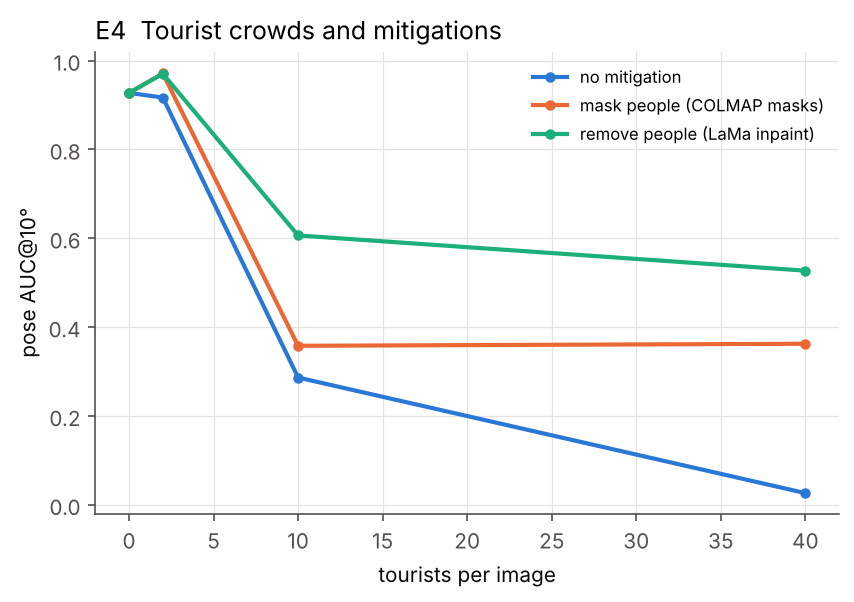
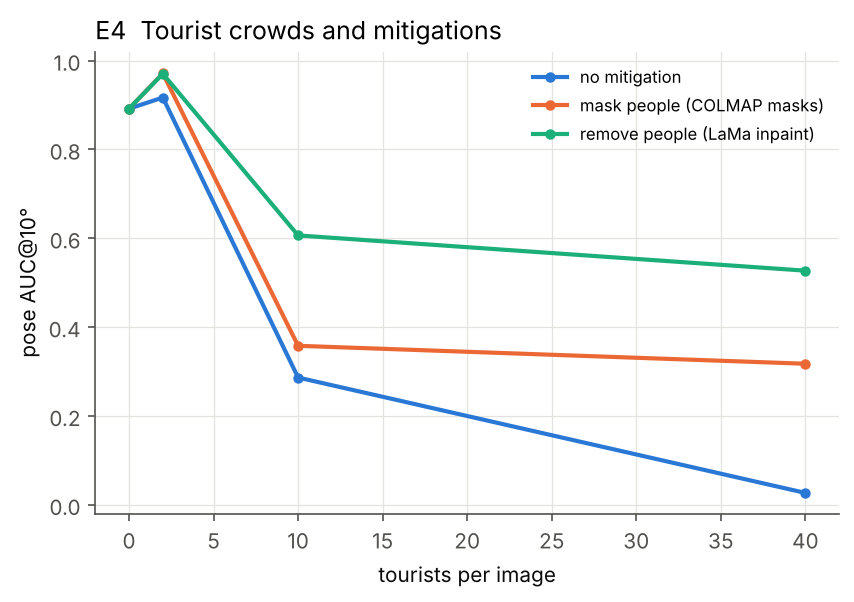
Update results
Claude-Session: https://claude.ai/code/session_01DwFUuxyVwkhujN2CBgQS9g

Changed region(s): [[0.3653, 0.5681, 0.9438, 0.6279], [0.1218, 0.1196, 0.1827, 0.1794]]

diff --git a/results/summary.md b/results/summary.md
@@ -5,7 +5,7 @@ Metric: pose AUC@10° over all input image pairs (unregistered = failure) and re
 
 ## Clean baseline
 
-29 runs, AUC@10 = 0.927 (std 0.154), registration 1.000.
+33 runs, AUC@10 = 0.892 (std 0.224), registration 0.935.
 
 
 ## E2a  Analytic corruptions
@@ -86,13 +86,13 @@ Metric: pose AUC@10° over all input image pairs (unregistered = failure) and re
 
 | severity | method | n | auc@10 | reg_frac |
 |---|---|---|---|---|
-| 4 | bicubic | 4 | 0.309 [0.11, 0.51] | 0.545 [0.35, 0.74] |
-| 4 | lowres | 4 | 0.023 [0.00, 0.05] | 0.125 [0.00, 0.25] |
+| 4 | bicubic | 6 | 0.219 [0.07, 0.38] | 0.413 [0.22, 0.61] |
+| 4 | lowres | 6 | 0.015 [0.00, 0.03] | 0.083 [0.00, 0.17] |
 | 4 | realesrgan | 1 | 0.174 | 0.440 |
-| 4 | unsharp_bicubic | 4 | 0.320 [0.11, 0.53] | 0.555 [0.35, 0.76] |
-| 8 | bicubic | 4 | 0.026 [0.00, 0.05] | 0.145 [0.04, 0.25] |
-| 8 | lowres | 4 | 0.000 [0.00, 0.00] | 0.037 [0.00, 0.07] |
-| 8 | unsharp_bicubic | 4 | 0.051 [0.05, 0.05] | 0.245 [0.24, 0.25] |
+| 4 | unsharp_bicubic | 6 | 0.257 [0.07, 0.44] | 0.383 [0.14, 0.62] |
+| 8 | bicubic | 6 | 0.021 [0.00, 0.04] | 0.103 [0.03, 0.18] |
+| 8 | lowres | 6 | 0.000 [0.00, 0.00] | 0.025 [0.00, 0.05] |
+| 8 | unsharp_bicubic | 5 | 0.051 [0.05, 0.05] | 0.244 [0.24, 0.25] |
 
 
 ## E4  Crowds
@@ -106,10 +106,10 @@ Metric: pose AUC@10° over all input image pairs (unregistered = failure) and re
 | lama_remove | 5 | 1 | 0.527 | 0.960 |
 | mask | 1 | 4 | 0.971 [0.97, 0.97] | 1.000 [1.00, 1.00] |
 | mask | 3 | 4 | 0.358 [0.21, 0.51] | 0.739 [0.57, 0.92] |
-| mask | 5 | 3 | 0.362 [0.16, 0.47] | 0.688 [0.62, 0.72] |
+| mask | 5 | 4 | 0.318 [0.17, 0.47] | 0.679 [0.64, 0.72] |
 | none | 1 | 4 | 0.917 [0.84, 0.97] | 1.000 [1.00, 1.00] |
 | none | 3 | 4 | 0.286 [0.11, 0.46] | 0.963 [0.92, 1.00] |
-| none | 5 | 3 | 0.026 [0.00, 0.07] | 0.775 [0.33, 1.00] |
+| none | 5 | 4 | 0.027 [0.01, 0.05] | 0.831 [0.49, 1.00] |
 
 
 ## E5  Contamination
@@ -118,17 +118,17 @@ Metric: pose AUC@10° over all input image pairs (unregistered = failure) and re
 
 | perturb | frac | n | auc@10 | reg_frac |
 |---|---|---|---|---|
-| clean | 1.000 | 4 | 0.971 [0.96, 0.98] | 1.000 [1.00, 1.00] |
-| crowd | 0.100 | 4 | 0.797 [0.63, 0.96] | 0.938 [0.81, 1.00] |
+| clean | 1.000 | 6 | 0.921 [0.82, 0.98] | 0.977 [0.93, 1.00] |
+| crowd | 0.100 | 5 | 0.732 [0.55, 0.91] | 0.890 [0.77, 1.00] |
 | crowd | 0.250 | 4 | 0.653 [0.55, 0.82] | 1.000 [1.00, 1.00] |
 | crowd | 0.500 | 4 | 0.300 [0.16, 0.44] | 0.870 [0.73, 0.99] |
 | crowd | 0.750 | 4 | 0.133 [0.06, 0.21] | 0.958 [0.90, 0.99] |
 | crowd | 1.000 | 4 | 0.026 [0.01, 0.04] | 0.994 [0.98, 1.00] |
-| motion_blur | 0.100 | 4 | 0.639 [0.52, 0.75] | 0.856 [0.77, 0.90] |
-| motion_blur | 0.250 | 4 | 0.282 [0.13, 0.45] | 0.522 [0.38, 0.67] |
-| motion_blur | 0.500 | 4 | 0.028 [0.00, 0.07] | 0.150 [0.09, 0.27] |
-| motion_blur | 0.750 | 4 | 0.004 [0.00, 0.01] | 0.079 [0.07, 0.09] |
-| motion_blur | 1.000 | 4 | 0.000 [0.00, 0.00] | 0.013 [0.00, 0.04] |
+| motion_blur | 0.100 | 6 | 0.599 [0.43, 0.73] | 0.829 [0.75, 0.90] |
+| motion_blur | 0.250 | 6 | 0.285 [0.13, 0.44] | 0.508 [0.34, 0.67] |
+| motion_blur | 0.500 | 6 | 0.028 [0.01, 0.06] | 0.162 [0.10, 0.23] |
+| motion_blur | 0.750 | 6 | 0.003 [0.00, 0.01] | 0.072 [0.06, 0.09] |
+| motion_blur | 1.000 | 6 | 0.000 [0.00, 0.00] | 0.008 [0.00, 0.03] |
 | night | 0.100 | 4 | 0.886 [0.76, 0.96] | 1.000 [1.00, 1.00] |
 | night | 0.250 | 4 | 0.702 [0.58, 0.87] | 0.889 [0.78, 1.00] |
 | night | 0.500 | 4 | 0.301 [0.16, 0.48] | 0.552 [0.41, 0.71] |
